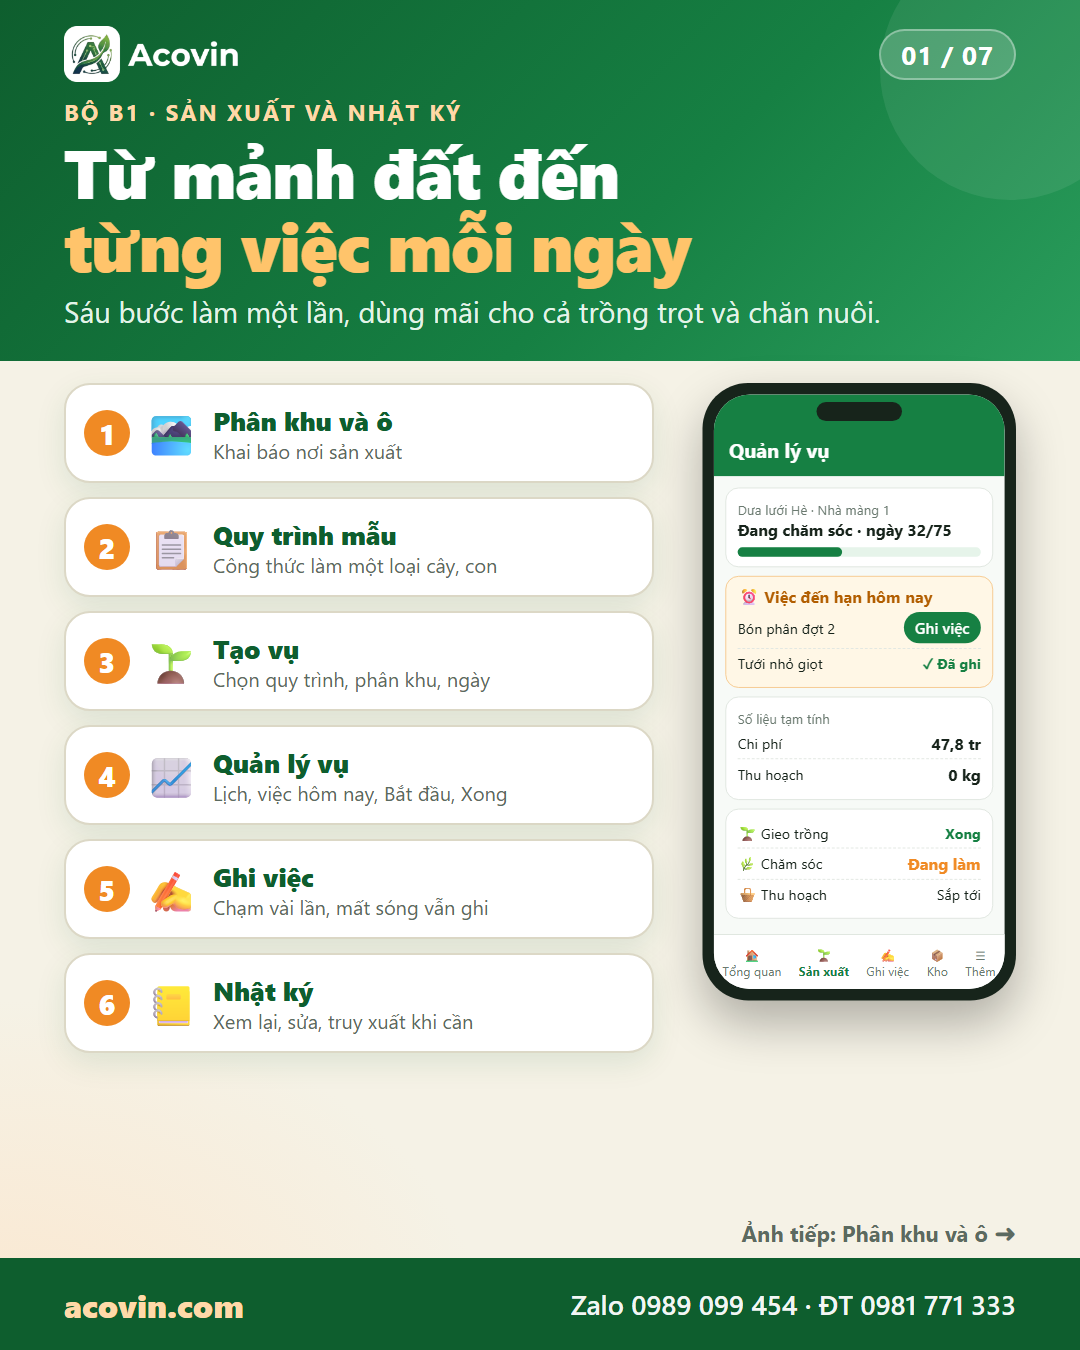
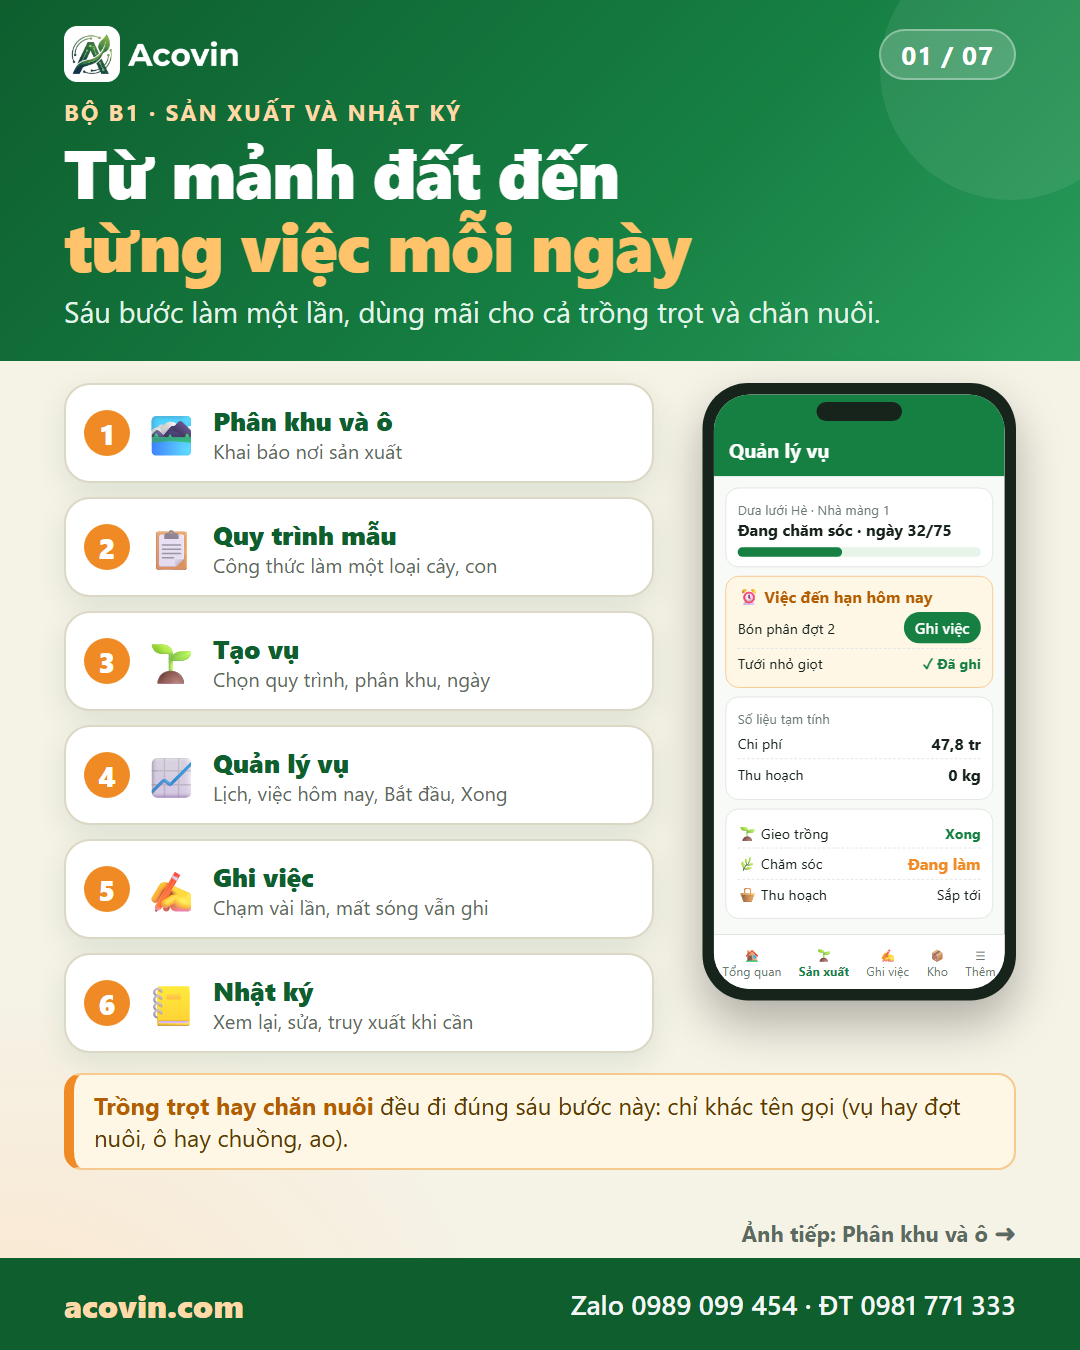
B1: bổ sung ghi chú ở ảnh bìa

Changed region(s): [[0.0611, 0.7778, 0.8861, 0.8711]]

diff --git a/marketing/gioi-thieu/b1/html/01.html b/marketing/gioi-thieu/b1/html/01.html
@@ -88,5 +88,6 @@ td{padding:7px 9px;border-bottom:1px solid #eef1ee}
 <div class="row"><span>Bón phân đợt 2</span><span class="chip on" style="margin:0">Ghi việc</span></div>
 <div class="row"><span>Tưới nhỏ giọt</span><span class="ok">✓ Đã ghi</span></div></div>
 <div class="ac"><small>Số liệu tạm tính</small><div class="row"><span>Chi phí</span><b>47,8 tr</b></div><div class="row"><span>Thu hoạch</span><b>0 kg</b></div></div>
-<div class="ac"><div class="row"><span>🌱 Gieo trồng</span><span class="ok">Xong</span></div><div class="row"><span>🌿 Chăm sóc</span><b style="color:var(--o)">Đang làm</b></div><div class="row"><span>🧺 Thu hoạch</span><span>Sắp tới</span></div></div></div><div class="tabs"><i class="">🏠<br>Tổng quan</i><i class="on">🌱<br>Sản xuất</i><i class="">✍<br>Ghi việc</i><i class="">📦<br>Kho</i><i class="">☰<br>Thêm</i></div></div></div></div>
+<div class="ac"><div class="row"><span>🌱 Gieo trồng</span><span class="ok">Xong</span></div><div class="row"><span>🌿 Chăm sóc</span><b style="color:var(--o)">Đang làm</b></div><div class="row"><span>🧺 Thu hoạch</span><span>Sắp tới</span></div></div></div><div class="tabs"><i class="">🏠<br>Tổng quan</i><i class="on">🌱<br>Sản xuất</i><i class="">✍<br>Ghi việc</i><i class="">📦<br>Kho</i><i class="">☰<br>Thêm</i></div></div></div>
+<div class="tip" style="position:absolute;left:0;right:0;top:690px"><b>Trồng trọt hay chăn nuôi</b> đều đi đúng sáu bước này: chỉ khác tên gọi (vụ hay đợt nuôi, ô hay chuồng, ao).</div></div>
 <div class="nextbar">Ảnh tiếp: Phân khu và ô ➜</div><div class="foot"><b>acovin.com</b><span>Zalo 0989 099 454 · ĐT 0981 771 333</span></div></div></body></html>
